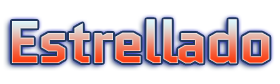
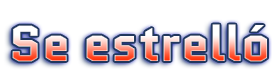
fix: update images translate - Epic GL-3913 - Epic GL-3913

diff --git a/src/assets/resources/i18n/es.ts b/src/assets/resources/i18n/es.ts
@@ -3,16 +3,16 @@ export const languages = {
     "Common": {
         "all": "Todos",
         "back": "Volver",
-        "bet_amount_of_any_choice_incorrect": "Importe de apuesta no válido",
+        "bet_amount_of_any_choice_incorrect": "Monto de apuesta no válido",
         "bet_choice": "Selección de Apuesta",
         "betChoice2": "Selección de Apuesta",
-        "bet_choice_away": "Away",
+        "bet_choice_away": "Visitante",
         "bet_choice_draw": "Empate",
         "bet_choice_even": "Par",
-        "bet_choice_home": "Home",
+        "bet_choice_home": "Local",
         "bet_choice_odd": "Impar",
         "bet_choice_over": "Over",
-        "betChoice_shorten": "Selección de Apuesta",
+        "betChoice_shorten": "Selección\nde Apuesta",
         "bet_choice_under": "Under",
         "bet_detail": "Detalles de la Apuesta",
         "bet_history": "Historial de Apuestas",
@@ -27,7 +27,7 @@ export const languages = {
         "cant_split_child_hand": "La opción 'Dividir' no está disponible para esta mano.",
         "cant_split_hand": "La opción \"Dividir\" no está disponible para esta mano.",
         "cards_not_equal": "Las cartas no tienen el mismo valor.",
-        "character_name": "Alias",
+        "character_name": "Apodo",
         "copy_failed_md5": "Función de copiado temporalmente no disponible.",
         "copy_successfully_md5": "Copiado con éxito.",
         "create_nick_name": "Crea tu Apodo",
@@ -47,10 +47,10 @@ export const languages = {
         "hand_already_splitted": "Esta mano ya se dividió.",
         "hand_is_stand": "Mano Final",
         "hand_not_active": "Mano Inactiva",
-        "hot": "Popular",
+        "hot": "Caliente",
         "invalid_bet": "Apuesta inválida",
         "invalid_deal_hands": "La cantidad de manos no es válida",
-        "invalid_free_spin": "Giro Gratis Inválido",
+        "invalid_free_spin": "Free Spin Inválido",
         "invalid_hand_id": "ID de mano inválido",
         "invalid_position": "Posición no válida",
         "invalid_stake_level": "Nivel de apuesta inválido",
@@ -172,9 +172,9 @@ export const languages = {
         "pf_fairness": "Equidad",
         "pf_header_client_seed": "Semilla del Cliente",
         "pf_header_combined_sha512_hash": "Hash SHA512 combinado",
-        "pf_ header_merge_client_seed": "Fusionar Semilla del Cliente",
+        "pf_ header_merge_client_seed": "Combinar la  \nsemilla del cliente",
         "pf_header_server_seed": "Semilla del Servidor",
-        "pf_header_server_seed_sha256": "Semilla del Servidor SHA256",
+        "pf_header_server_seed_sha256": "SHA256 de la  \nsemilla del servidor",
         "pf_new_client_seed_para_1": "Tu semilla:",
         "pf_player_1": "Jugador 1",
         "pf_player_2": "Jugador 2",
@@ -230,8 +230,8 @@ export const languages = {
         "auto_cash_out_in": "Auto retiro en",
         "auto_start": "Inicio Automático",
         "big_win_banner": "Big Win!",
-        "cash_out": "Retiro",
-        "crashed": "Caído",
+        "cash_out": "Retirar",
+        "crashed": "Se estrelló",
         "game_name": "Crypto Mining",
         "header_crash_point": "Punto de colisión",
         "header_mining_attempts": "Intentos de Minado",

diff --git a/src/assets/resources/i18n/ja.ts b/src/assets/resources/i18n/ja.ts
@@ -7,7 +7,7 @@ export const languages = {
         "bet_choice": "ベット選択",
         "betChoice2": "ベット選択",
         "bet_choice_away": "アウェイ",
-        "bet_choice_draw": "ドロー",
+        "bet_choice_draw": "引き分け",
         "bet_choice_even": "偶数",
         "bet_choice_home": "ホーム",
         "bet_choice_odd": "奇数",
@@ -50,7 +50,7 @@ export const languages = {
         "hot": "ホット",
         "invalid_bet": "無効なベットです",
         "invalid_deal_hands": "ハンド数が無効です",
-        "invalid_free_spin": "無効なフリースピン",
+        "invalid_free_spin": "無効なFree Spin",
         "invalid_hand_id": "無効なハンドIDです",
         "invalid_position": "無効なポジションです",
         "invalid_stake_level": "無効なステークレベルです",
